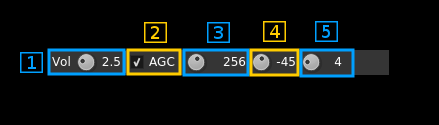
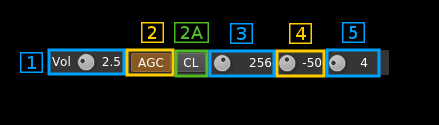
SSB demod: updated documentation

Changed region(s): [[0.2665, 0.384, 0.8884, 0.624], [0.2961, 0.168, 0.8292, 0.36]]

diff --git a/plugins/channelrx/demodssb/readme.md b/plugins/channelrx/demodssb/readme.md
@@ -112,6 +112,10 @@ If you are into digging weak signals out of the noise you probably will not turn
 
 This AGC is based on the calculated magnitude (square root of power of the filtered signal as I² + Q²) and will try to adjust audio volume as if a -20dB power signal was received.
 
+<h4>11.2A: AGC clamping</h4>
+
+When on this clamps signal at the maximum amplitude. Normally this is not needed for most signals as the AGC amplitude order is quite conservative at 10% of the maximum. You may switch it on if you notice a loud click when a transmission starts.
+
 <h4>11.3: AGC time constant</h4>
 
 This is the time window in milliseconds of the moving average used to calculate the signal power average. It can be varied in powers of two from 16 to 2048 ms that is: 16, 32, 64, 128, 256, 512, 1024 and 2048 ms. The most practical values are between 128 and 512 ms.
